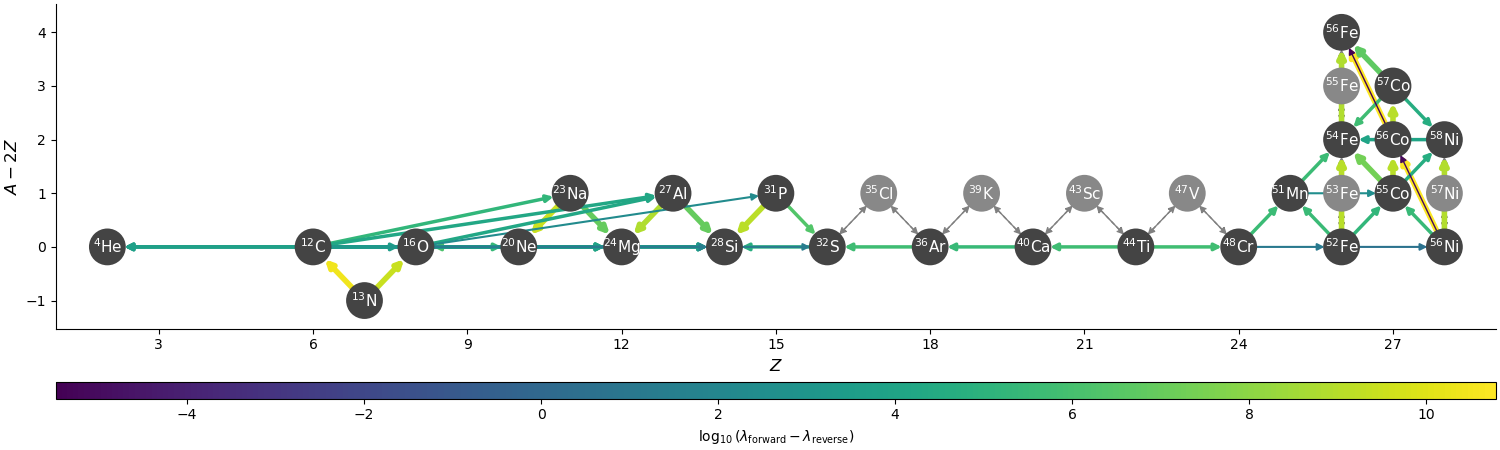
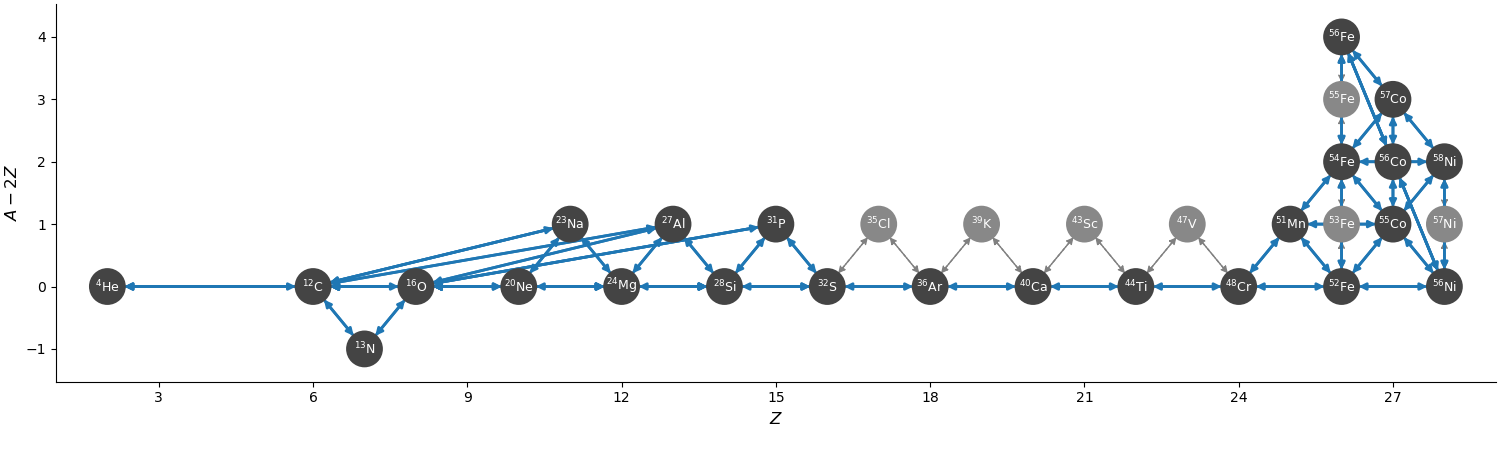
update plot

diff --git a/networks/he-burn/ase-iron/ase_iron.py b/networks/he-burn/ase-iron/ase_iron.py
@@ -106,11 +106,10 @@ def doit():
     rho = 1.e7
     T = 6.e9
 
-    net.plot(rho, T, comp, outfile="ase-iron.png",
+    net.plot(outfile="ase-iron.png",
              rotated=True, hide_xalpha=True,
-             use_net_rate=True,
              size=(1500, 450),
-             node_size=600, node_font_size=11,
+             node_size=600, node_font_size=9,
              Z_range=(1, 29))
 
     net.write_network()
